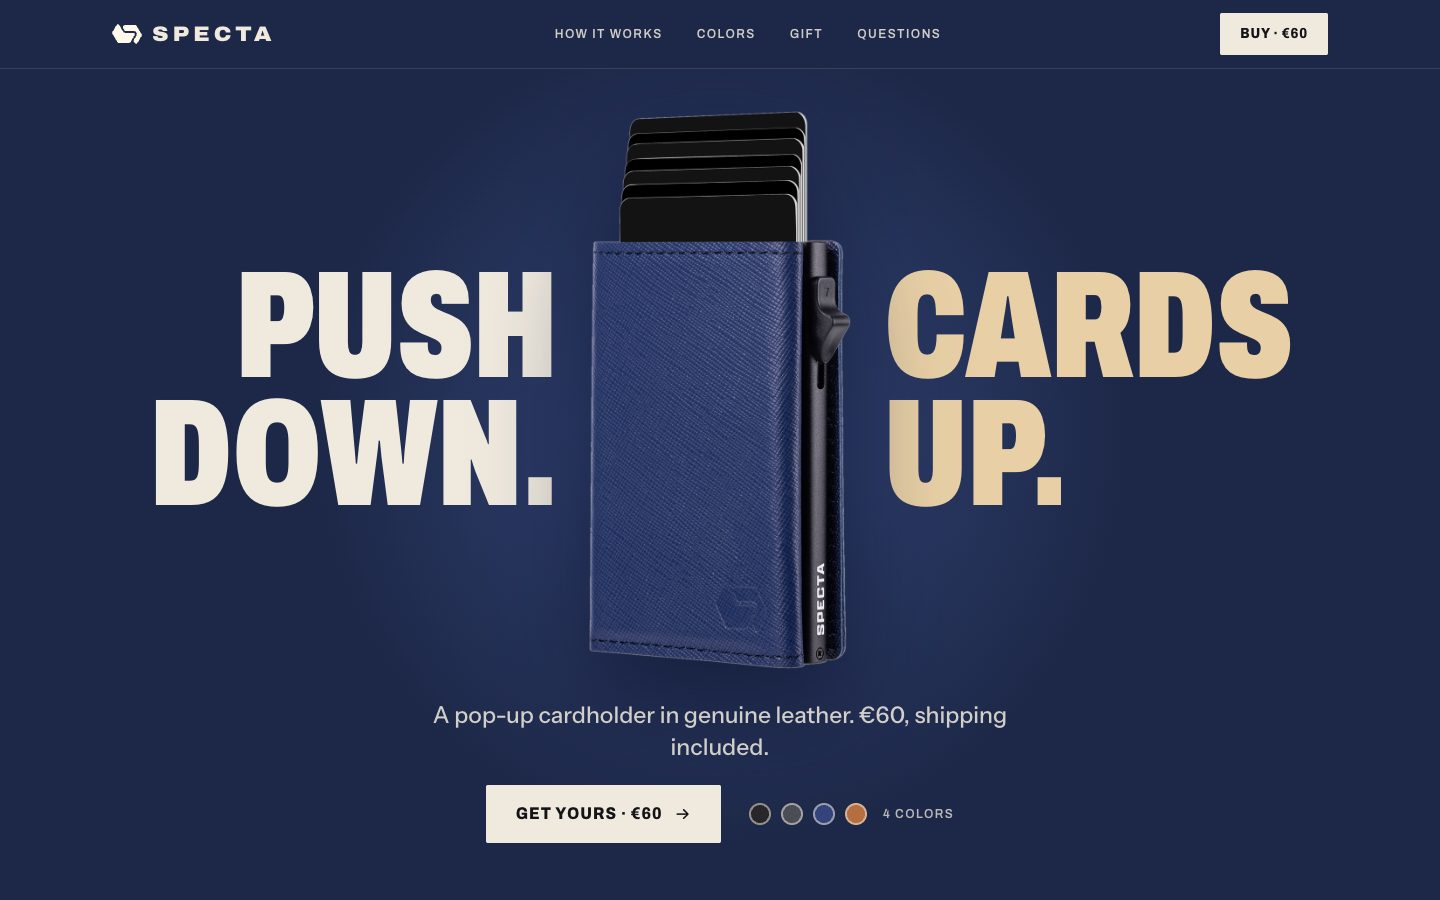
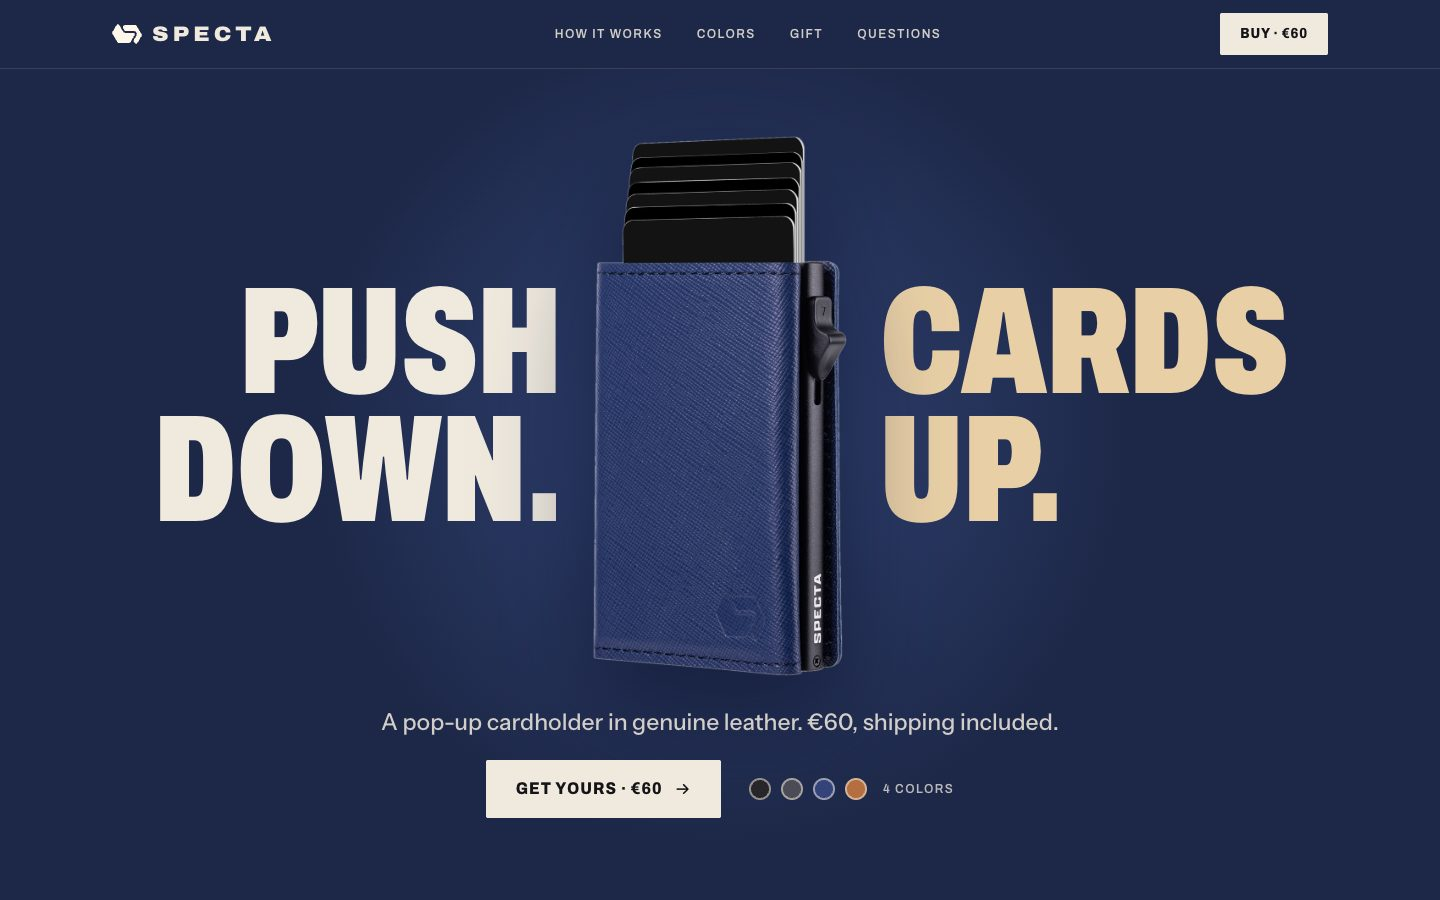
Update meekijkpagina

Changed region(s): [[0.0938, 0.1244, 0.9062, 0.7467], [0.2812, 0.7778, 0.75, 0.9644]]

diff --git a/index.html b/index.html
@@ -1,8 +1,8 @@
 <!doctype html><meta charset=utf-8><meta name=viewport content="width=device-width,initial-scale=1"><meta http-equiv=refresh content=60><meta name=robots content=noindex>
 <title>Specta · meekijken</title><style>
 body{margin:0;background:#0b1626;color:#eef2f7;font:15px/1.5 system-ui,-apple-system,sans-serif}main{max-width:1200px;margin:auto;padding:24px 16px}
-h1{font-size:28px;margin:0 0 4px}.sub{color:#9fb0c6;margin:0 0 20px}.bar{height:8px;background:#1d2c44;border-radius:9px;overflow:hidden;margin:0 0 20px}.bar i{display:block;height:100%;background:linear-gradient(90deg,#ff7a2f,#ffc24d);width:61%}
+h1{font-size:28px;margin:0 0 4px}.sub{color:#9fb0c6;margin:0 0 20px}.bar{height:8px;background:#1d2c44;border-radius:9px;overflow:hidden;margin:0 0 20px}.bar i{display:block;height:100%;background:linear-gradient(90deg,#ff7a2f,#ffc24d);width:78%}
 ul{list-style:none;padding:0;display:grid;grid-template-columns:repeat(auto-fill,minmax(220px,1fr));gap:8px}li{background:#13233a;border-radius:10px;padding:8px 12px}li span{margin-right:8px}li.ok span{color:#5ad38b}li.run span{color:#ffc24d;animation:p 1.2s infinite}@keyframes p{50%{opacity:.3}}
 h2{font-size:20px;margin:28px 0 10px}h2 a,.docs a{color:#ffc24d;font-size:14px;margin-left:10px}.g{display:grid;grid-template-columns:repeat(auto-fill,minmax(260px,1fr));gap:12px}.g a{color:#9fb0c6;text-decoration:none}.g img{width:100%;border-radius:10px;display:block;max-height:520px;object-fit:cover;object-position:top}em{font-style:normal;font-size:13px}
-</style><main><h1>Specta · nieuwe website-richtingen</h1><p class=sub>Ververst elke minuut · 21:38:58 · 14 van 23 stappen klaar</p><div class=bar><i></i></div>
-<ul><li class="ok"><span>✓</span>Studie · jvo-design</li><li class="ok"><span>✓</span>Studie · jvo-social</li><li class="ok"><span>✓</span>Studie · specta-assets</li><li class="ok"><span>✓</span>Richtingen</li><li class="ok"><span>✓</span>Bouwen · A</li><li class="ok"><span>✓</span>Bouwen · B</li><li class="ok"><span>✓</span>Bouwen · C</li><li class="ok"><span>✓</span>Bouwen · D</li><li class="ok"><span>✓</span>Art-director · A</li><li class="ok"><span>✓</span>Marketing-check · A</li><li class="ok"><span>✓</span>Art-director · C</li><li class="ok"><span>✓</span>Marketing-check · C</li><li class="ok"><span>✓</span>Art-director · B</li><li class="ok"><span>✓</span>Marketing-check · B</li><li class="run"><span>●</span>Verfijnen · C</li><li class="run"><span>●</span>Verfijnen · A</li><li class="run"><span>●</span>Verfijnen · B</li><li class="run"><span>●</span>Art-director · D</li><li class="run"><span>●</span>Marketing-check · D</li></ul><div class=docs><a href="f/IDEAS.md" target=_blank>IDEAS.md</a></div><section><h2>A <a href="f/A/index.html" target=_blank>open mockup →</a></h2><div class=g><a href="f/A/shot-desktop-hero.jpg" target=_blank><img src="f/A/shot-desktop-hero.jpg?t=1794861511"><em>desktop-hero</em></a><a href="f/A/shot-desktop.jpg" target=_blank><img src="f/A/shot-desktop.jpg?t=1794861511"><em>desktop</em></a><a href="f/A/shot-phone.jpg" target=_blank><img src="f/A/shot-phone.jpg?t=1794861512"><em>phone</em></a></div></section><section><h2>B <a href="f/B/index.html" target=_blank>open mockup →</a></h2><div class=g><a href="f/B/shot-desktop-hero.jpg" target=_blank><img src="f/B/shot-desktop-hero.jpg?t=1794861528"><em>desktop-hero</em></a><a href="f/B/shot-desktop.jpg" target=_blank><img src="f/B/shot-desktop.jpg?t=1794861528"><em>desktop</em></a><a href="f/B/shot-phone.jpg" target=_blank><img src="f/B/shot-phone.jpg?t=1794861529"><em>phone</em></a></div></section><section><h2>C <a href="f/C/index.html" target=_blank>open mockup →</a></h2><div class=g><a href="f/C/shot-desktop-hero.jpg" target=_blank><img src="f/C/shot-desktop-hero.jpg?t=1794861143"><em>desktop-hero</em></a><a href="f/C/shot-desktop.jpg" target=_blank><img src="f/C/shot-desktop.jpg?t=1794861143"><em>desktop</em></a><a href="f/C/shot-phone.jpg" target=_blank><img src="f/C/shot-phone.jpg?t=1794861143"><em>phone</em></a></div></section><section><h2>D <a href="f/D/index.html" target=_blank>open mockup →</a></h2><div class=g><a href="f/D/shot-desktop-hero.jpg" target=_blank><img src="f/D/shot-desktop-hero.jpg?t=1794861439"><em>desktop-hero</em></a><a href="f/D/shot-desktop.jpg" target=_blank><img src="f/D/shot-desktop.jpg?t=1794861439"><em>desktop</em></a><a href="f/D/shot-phone.jpg" target=_blank><img src="f/D/shot-phone.jpg?t=1794861439"><em>phone</em></a></div></section></main>
+</style><main><h1>Specta · nieuwe website-richtingen</h1><p class=sub>Ververst elke minuut · 21:41:01 · 18 van 23 stappen klaar</p><div class=bar><i></i></div>
+<ul><li class="ok"><span>✓</span>Studie · jvo-design</li><li class="ok"><span>✓</span>Studie · jvo-social</li><li class="ok"><span>✓</span>Studie · specta-assets</li><li class="ok"><span>✓</span>Richtingen</li><li class="ok"><span>✓</span>Bouwen · A</li><li class="ok"><span>✓</span>Bouwen · B</li><li class="ok"><span>✓</span>Bouwen · C</li><li class="ok"><span>✓</span>Bouwen · D</li><li class="ok"><span>✓</span>Art-director · A</li><li class="ok"><span>✓</span>Marketing-check · A</li><li class="ok"><span>✓</span>Art-director · C</li><li class="ok"><span>✓</span>Marketing-check · C</li><li class="ok"><span>✓</span>Art-director · B</li><li class="ok"><span>✓</span>Marketing-check · B</li><li class="run"><span>●</span>Verfijnen · C</li><li class="ok"><span>✓</span>Verfijnen · A</li><li class="ok"><span>✓</span>Verfijnen · B</li><li class="ok"><span>✓</span>Art-director · D</li><li class="ok"><span>✓</span>Marketing-check · D</li><li class="run"><span>●</span>Verfijnen · D</li></ul><div class=docs><a href="f/IDEAS.md" target=_blank>IDEAS.md</a></div><section><h2>A <a href="f/A/index.html" target=_blank>open mockup →</a></h2><div class=g><a href="f/A/shot-desktop-hero.jpg" target=_blank><img src="f/A/shot-desktop-hero.jpg?t=1794861644"><em>desktop-hero</em></a><a href="f/A/shot-desktop.jpg" target=_blank><img src="f/A/shot-desktop.jpg?t=1794861644"><em>desktop</em></a><a href="f/A/shot-phone.jpg" target=_blank><img src="f/A/shot-phone.jpg?t=1794861644"><em>phone</em></a></div></section><section><h2>B <a href="f/B/index.html" target=_blank>open mockup →</a></h2><div class=g><a href="f/B/shot-desktop-hero.jpg" target=_blank><img src="f/B/shot-desktop-hero.jpg?t=1794861599"><em>desktop-hero</em></a><a href="f/B/shot-desktop.jpg" target=_blank><img src="f/B/shot-desktop.jpg?t=1794861600"><em>desktop</em></a><a href="f/B/shot-phone.jpg" target=_blank><img src="f/B/shot-phone.jpg?t=1794861600"><em>phone</em></a></div></section><section><h2>C <a href="f/C/index.html" target=_blank>open mockup →</a></h2><div class=g><a href="f/C/shot-desktop-hero.jpg" target=_blank><img src="f/C/shot-desktop-hero.jpg?t=1794861657"><em>desktop-hero</em></a><a href="f/C/shot-desktop.jpg" target=_blank><img src="f/C/shot-desktop.jpg?t=1794861657"><em>desktop</em></a><a href="f/C/shot-phone.jpg" target=_blank><img src="f/C/shot-phone.jpg?t=1794861657"><em>phone</em></a></div></section><section><h2>D <a href="f/D/index.html" target=_blank>open mockup →</a></h2><div class=g><a href="f/D/shot-desktop-hero.jpg" target=_blank><img src="f/D/shot-desktop-hero.jpg?t=1794861439"><em>desktop-hero</em></a><a href="f/D/shot-desktop.jpg" target=_blank><img src="f/D/shot-desktop.jpg?t=1794861439"><em>desktop</em></a><a href="f/D/shot-phone.jpg" target=_blank><img src="f/D/shot-phone.jpg?t=1794861439"><em>phone</em></a></div></section></main>

diff --git a/f/A/index.html b/f/A/index.html
@@ -63,6 +63,7 @@ button{font:inherit;color:inherit;background:none;border:0;cursor:pointer}
 .sw[aria-pressed="true"]{color:var(--ice)}
 .sw[aria-pressed="true"] i{box-shadow:inset 0 0 0 1px rgba(255,255,255,.22),0 0 0 3px var(--ground),0 0 0 5px var(--accent-2)}
 .on-copper .sw{color:rgba(15,23,48,.78)}
+.on-copper .sw i{box-shadow:inset 0 0 0 1.5px rgba(15,23,48,.45)}
 .on-copper .sw[aria-pressed="true"]{color:var(--ink)}
 .on-copper .sw[aria-pressed="true"] i{box-shadow:inset 0 0 0 1px rgba(255,255,255,.22),0 0 0 3px var(--copper-band),0 0 0 5px var(--ink)}
 .trustline{font-size:14.5px;color:var(--ice-m);display:flex;flex-wrap:wrap;gap:4px 14px}
@@ -125,7 +126,7 @@ button{font:inherit;color:inherit;background:none;border:0;cursor:pointer}
 .fix-head{display:grid;grid-template-columns:1fr auto;gap:40px;align-items:end;position:relative;z-index:2}
 .fix-head .sub b{color:var(--ink)}
 .steps{position:relative;z-index:2;display:grid;grid-template-columns:1fr .62fr 1fr;gap:28px;margin-top:64px;align-items:end}
-.step figure{position:relative}
+.step figure{position:relative;background:var(--paper)}
 .step img{width:100%;aspect-ratio:1;object-fit:cover;mix-blend-mode:multiply}
 .step.side img{aspect-ratio:.62;object-position:50% 50%}
 .step .num{font-family:var(--display);font-weight:900;font-size:110px;line-height:.8;color:var(--accent);display:block}
@@ -153,7 +154,7 @@ button{font:inherit;color:inherit;background:none;border:0;cursor:pointer}
 /* 04 gift (paper) */
 .giftsec{padding-block:120px}
 .gift-grid{position:relative;z-index:2;display:grid;grid-template-columns:1.25fr .75fr;gap:56px;align-items:center}
-.boxshot{position:relative;margin-left:calc(var(--gut) * -1)}
+.boxshot{position:relative;margin-left:calc(var(--gut) * -1);background:var(--paper)}
 .boxshot img{width:100%;max-width:820px;mix-blend-mode:multiply}
 .boxshot .tape.t1{left:14%;top:6%;transform:rotate(-8deg)}
 .boxshot .tape.t2{right:12%;bottom:12%;transform:rotate(6deg)}
@@ -246,7 +247,7 @@ button{font:inherit;color:inherit;background:none;border:0;cursor:pointer}
   .hero .wrap{padding-block:20px 26px}
   .eyebrow{font-size:23px}
   .h1{margin-top:10px;font-size:clamp(72px,22.5vw,120px);line-height:.8}
-  .prod{position:relative;right:auto;top:auto;transform:none;margin:-34px auto 0;height:330px}
+  .prod{position:relative;right:auto;top:auto;transform:none;margin:-30px auto 0;height:282px}
   .prod .ring{display:none}
   .hero-foot{margin-top:6px;gap:18px;width:100%}
   .what b{font-size:30px}
@@ -265,11 +266,13 @@ button{font:inherit;color:inherit;background:none;border:0;cursor:pointer}
   .fix{padding-block:40px 80px}
   .fix-head{grid-template-columns:1fr;gap:18px}
   .fix .sticker{width:104px;height:104px;font-size:21px;right:var(--gut);top:-10px}
-  .steps{grid-template-columns:1fr;gap:36px;margin-top:36px}
-  .step.side figure{max-width:62%}
-  .step.side img{aspect-ratio:.8}
-  .step .num{font-size:84px}
-  .step h3{font-size:38px}
+  .steps{grid-template-columns:1fr 1fr;gap:28px 14px;margin-top:30px}
+  .step:last-child{grid-column:1/-1;display:grid;grid-template-columns:55% 1fr;align-items:center;gap:10px}
+  .step.side img{aspect-ratio:1}
+  .step .cap{gap:10px;margin-top:-4px}
+  .step p{font-size:14.5px}
+  .step .num{font-size:64px}
+  .step h3{font-size:30px}
   .fix .stack-line{margin-top:40px}
   .colours{grid-template-columns:1fr;min-height:0}
   .c-photo{height:118vw;max-height:560px}
@@ -351,7 +354,7 @@ button{font:inherit;color:inherit;background:none;border:0;cursor:pointer}
   <div class="wrap">
     <div class="fix-head">
       <h2 class="h2 reveal">Wanted<span class="dot">:</span><br>your card<span class="dot">.</span></h2>
-      <p class="sub reveal" style="--i:1"><b>Last seen: the bottom of your wallet.</b><br>Specta keeps your cards in one slim leather holder and brings them up when you need them.</p>
+      <p class="sub reveal" style="--i:1"><b>Last seen: the bottom of your wallet.</b><br>Specta keeps your cards together in leather and brings them up when you need them.</p>
     </div>
     <div class="steps">
       <div class="step reveal" style="--i:1">
@@ -368,7 +371,7 @@ button{font:inherit;color:inherit;background:none;border:0;cursor:pointer}
       </div>
     </div>
     <div class="stack-line reveal">
-      <p>RFID-blocking lining <em>helps block wireless skimming.</em></p>
+      <p>RFID-blocking. <em>Helps block wireless skimming.</em></p>
       <a class="btn ink buy-link" href="/products/specta-wallet?variant=black"><span class="cdot"></span><span class="buy-txt">Buy Specta · Black · €60</span></a>
     </div>
   </div>
@@ -450,7 +453,7 @@ button{font:inherit;color:inherit;background:none;border:0;cursor:pointer}
     <div class="lines reveal" style="--i:1">
       <details open><summary><b>How many cards fit?</b><i></i></summary><p class="ans">Up to seven, depending on how thick your cards are. Push down on the side ledge and they rise in a stepped stack.</p></details>
       <details><summary><b>Is it real leather?</b><i></i></summary><p class="ans">Yes. Genuine leather with a Saffiano finish, in black, grey, navy or brown.</p></details>
-      <details><summary><b>What does RFID-blocking do?</b><i></i></summary><p class="ans">The lining helps block wireless skimming of the cards inside the wallet. It's an extra layer of protection, not a guarantee, and it can't protect a card once it's out of the wallet.</p></details>
+      <details><summary><b>What does RFID-blocking do?</b><i></i></summary><p class="ans">It helps block wireless skimming of the cards inside the wallet. It's an extra layer of protection, not a guarantee, and it can't protect a card once it's out of the wallet.</p></details>
       <details><summary><b>Where do you deliver?</b><i></i></summary><p class="ans">Within the EU only. Shipping is free and already included in the €60, so nothing is added at checkout. <span class="todo" style="color:var(--accent-2)">Delivery time: add once shipping route is final</span></p></details>
       <details><summary><b>Can I return it?</b><i></i></summary><p class="ans">Yes. You have 30 days to return it. Questions about a return? Email hello@shopspecta.com.</p></details>
       <details><summary><b>Why no reviews yet?</b><i></i></summary><p class="ans">We're new. We'd rather show no reviews than invented ones. They'll appear here once real buyers write them, the critical ones too.</p></details>
@@ -529,7 +532,7 @@ button{font:inherit;color:inherit;background:none;border:0;cursor:pointer}
   var sbar=document.getElementById('sbar'), heroBtn=document.querySelector('.hero .buy-link'), fin=document.getElementById('buy'), hv=true, fv=false;
   function upd(){ sbar.classList.toggle('on', !hv && !fv); }
   if('IntersectionObserver' in window){
-    new IntersectionObserver(function(es){ hv=es[0].isIntersecting; upd(); }).observe(heroBtn);
+    new IntersectionObserver(function(es){ hv=es[0].isIntersecting||es[0].boundingClientRect.top>0; upd(); }).observe(heroBtn);
     new IntersectionObserver(function(es){ fv=es[0].isIntersecting; upd(); }).observe(fin);
   }
   if(/[?&]bar/.test(location.search)){ hv=false; upd(); }

diff --git a/f/B/index.html b/f/B/index.html
@@ -77,18 +77,18 @@ button{font:inherit;cursor:pointer;border:0;background:none;color:inherit}
 .mech-head .wrap{display:grid;grid-template-columns:1.2fr 1fr;gap:56px;align-items:end}
 .mech-head .label{color:var(--sand);margin-bottom:22px;display:block}
 .mech-head .sub{color:rgba(239,233,222,.82)}
-.pair{display:grid;grid-template-columns:1fr 1fr}
+.pair{display:grid;grid-template-columns:minmax(0,1fr) minmax(0,1fr)}
 .pair figure{position:relative;background:#fff;overflow:hidden}
 .pair img{width:100%;aspect-ratio:1/1;object-fit:cover}
 .pair figcaption{position:absolute;left:28px;bottom:24px;background:var(--graphite);color:var(--bone);padding:10px 14px}
-.mech-strip{display:grid;grid-template-columns:repeat(3,1fr);border-top:1px solid rgba(239,233,222,.12)}
+.mech-strip{display:grid;grid-template-columns:repeat(3,minmax(0,1fr));border-top:1px solid rgba(239,233,222,.12)}
 .mech-strip div{padding:34px var(--gut);border-right:1px solid rgba(239,233,222,.12)}
 .mech-strip div:last-child{border-right:0}
 .mech-strip .label{color:var(--sand);display:block;margin-bottom:10px}
 .mech-strip p{color:rgba(239,233,222,.86);max-width:360px}
 
 /* 3 · LIFE — full-bleed triptych */
-.life{display:grid;grid-template-columns:repeat(3,1fr);position:relative}
+.life{display:grid;grid-template-columns:repeat(3,minmax(0,1fr));position:relative}
 .life img{width:100%;aspect-ratio:4/5;object-fit:cover}
 .life-over{position:absolute;inset:auto 0 0 0;padding:56px var(--gut) 44px;background:linear-gradient(0deg,rgba(14,14,16,.78),rgba(14,14,16,0));color:var(--bone);display:flex;justify-content:space-between;align-items:flex-end;gap:32px}
 .life-over .label{opacity:.8}
@@ -97,7 +97,7 @@ button{font:inherit;cursor:pointer;border:0;background:none;color:inherit}
 .colors-head{padding:var(--pad) 0 56px}
 .colors-head .wrap{display:flex;justify-content:space-between;align-items:flex-end;gap:40px}
 .colors-head .sub{max-width:440px;color:var(--ink-2)}
-.fields{display:grid;grid-template-columns:repeat(4,1fr)}
+.fields{display:grid;grid-template-columns:repeat(4,minmax(0,1fr))}
 .field{color:var(--bone);display:flex;flex-direction:column;text-align:left;cursor:pointer;transition:filter .2s}
 .field:hover{filter:brightness(1.08)}
 .field .name{font-family:var(--display);font-weight:900;font-variation-settings:"wdth" 68;text-transform:uppercase;font-size:clamp(40px,4.4vw,68px);line-height:.9;padding:34px 28px 20px}
@@ -114,7 +114,7 @@ button{font:inherit;cursor:pointer;border:0;background:none;color:inherit}
 .steps{list-style:none;counter-reset:s;display:grid;gap:14px}
 .steps li{counter-increment:s;display:grid;grid-template-columns:40px 1fr;align-items:baseline;border-top:1px solid rgba(20,20,22,.16);padding-top:14px}
 .steps li::before{content:counter(s,decimal-leading-zero);font-family:var(--display);font-weight:800;font-size:13px;letter-spacing:.1em}
-.facts{display:grid;grid-template-columns:repeat(3,1fr);gap:0;max-width:1440px;margin:0 auto;border-top:1px solid rgba(20,20,22,.16)}
+.facts{display:grid;grid-template-columns:repeat(3,minmax(0,1fr));gap:0;max-width:1440px;margin:0 auto;border-top:1px solid rgba(20,20,22,.16)}
 .facts div{padding:30px 32px 0 0}
 .facts .label{display:block;margin-bottom:8px}
 .facts p{color:var(--ink-2);font-size:16px}
@@ -124,8 +124,8 @@ button{font:inherit;cursor:pointer;border:0;background:none;color:inherit}
 .posters-head{padding:96px 0 48px}
 .posters-head .wrap{display:flex;justify-content:space-between;align-items:flex-end;gap:32px}
 .posters-head p{color:rgba(239,233,222,.72);max-width:420px}
-.wall{display:grid;grid-template-columns:repeat(4,1fr)}
-.wall img{width:100%;aspect-ratio:4/5.6;object-fit:cover}
+.wall{display:grid;grid-template-columns:repeat(4,minmax(0,1fr))}
+.wall img{width:100%;aspect-ratio:4/6;object-fit:cover;object-position:50% 0}
 
 /* 6 · BUY + FAQ */
 .buy{padding:var(--pad) 0 0}
@@ -179,41 +179,43 @@ footer{background:var(--navy);color:var(--bone);padding:96px 0 120px}
   .top .btn{height:38px;padding:0 14px;font-size:13px}
   .hero{min-height:0;padding:30px 0 0;justify-content:flex-start}
   .hero::before{top:74%;width:120vw}
-  .hero-grid{grid-template-columns:1fr;gap:0}
+  .hero-grid{grid-template-columns:minmax(0,1fr);gap:0}
   .hero h1 .l,.hero h1 .r{grid-column:1;text-align:left;font-size:clamp(54px,16.5vw,80px)}
   .hero h1 .l{grid-row:1}.hero h1 .r{grid-row:2}
   .hero h1 span{display:inline}
   .hero h1 br.dk{display:none}
-  .hero-foot{grid-row:3;align-items:flex-start;text-align:left;margin-top:20px;padding:0 var(--gut);gap:18px}
+  .hero-foot{grid-row:3;align-items:flex-start;text-align:left;margin-top:20px;padding:0;gap:18px}
   .hero-cta{justify-content:flex-start;gap:18px}
   .hero-cta .btn{width:100%;justify-content:center}
   .hero-prod{grid-column:1;grid-row:4;height:420px;justify-self:center;margin-top:22px}
-  .mech-head .wrap{grid-template-columns:1fr;gap:20px}
-  .pair{grid-template-columns:1fr 1fr}
+  .mech-head .wrap{grid-template-columns:minmax(0,1fr);gap:20px}
+  .pair{grid-template-columns:minmax(0,1fr) minmax(0,1fr)}
   .pair figcaption{left:10px;bottom:10px;padding:7px 9px}
-  .mech-strip{grid-template-columns:1fr}
+  .mech-strip{grid-template-columns:minmax(0,1fr)}
   .mech-strip div{border-right:0;border-bottom:1px solid rgba(239,233,222,.12);padding:24px var(--gut)}
-  .life{grid-template-columns:1fr 1fr}
+  .life{grid-template-columns:minmax(0,1fr) minmax(0,1fr)}
   .life img:nth-child(3){display:none}
   .life-over{flex-direction:column;align-items:flex-start;gap:8px;padding:40px var(--gut) 22px}
-  .life-over .d2{font-size:40px}
+  .life-over .d2{font-size:32px}
+  .hero-grid > *,.buy-grid > *,.faq-grid > *{min-width:0}
+  .hero-foot .sub{font-size:18px}
   .colors-head .wrap{flex-direction:column;align-items:flex-start;gap:16px}
-  .fields{grid-template-columns:1fr 1fr}
+  .fields{grid-template-columns:minmax(0,1fr) minmax(0,1fr)}
   .field .name{font-size:34px;padding:20px 16px 12px}
   .field .meta{padding:12px 16px 16px}
-  .incl-grid{grid-template-columns:1fr}
+  .incl-grid{grid-template-columns:minmax(0,1fr)}
   .incl-img{min-height:0;aspect-ratio:1/1}
   .incl-copy{padding:40px var(--gut)}
-  .facts{grid-template-columns:1fr;padding:0 var(--gut)}
+  .facts{grid-template-columns:minmax(0,1fr)}
   .facts div{padding:20px 0;border-bottom:1px solid rgba(20,20,22,.12)}
   .posters-head{padding:64px 0 32px}
   .posters-head .wrap{flex-direction:column;align-items:flex-start;gap:12px}
-  .wall{grid-template-columns:1fr 1fr}
-  .buy-grid{grid-template-columns:1fr;gap:28px}
+  .wall{grid-template-columns:minmax(0,1fr) minmax(0,1fr)}
+  .buy-grid{grid-template-columns:minmax(0,1fr);gap:28px}
   .buy-img{margin:0 calc(var(--gut) * -1)}
   .price{font-size:38px}
   .chip{width:52px;height:52px}
-  .faq-grid{grid-template-columns:1fr;gap:20px}
+  .faq-grid{grid-template-columns:minmax(0,1fr);gap:20px}
   summary{font-size:17px}
   .foot-grid{grid-template-columns:1fr 1fr;gap:28px}
   .foot-grid > div:first-child{grid-column:1/-1}

diff --git a/f/C/index.html b/f/C/index.html
@@ -110,8 +110,8 @@ button{font:inherit;color:inherit;background:none;border:0;cursor:pointer}
 .dig-b .cap{font:500 17px/1.45 var(--ui);max-width:440px;color:var(--muted)}
 
 /* ---------- 3 colours ---------- */
-.cols-head{display:grid;grid-template-columns:1fr minmax(280px,400px);gap:40px;align-items:end;padding:128px var(--gut) 56px}
-.cols-head h2{font-size:clamp(46px,9vw,140px)}
+.cols-head{display:grid;grid-template-columns:1fr minmax(260px,340px);gap:40px;align-items:end;padding:128px var(--gut) 56px}
+.cols-head h2{font-size:clamp(46px,7.4vw,116px)}
 .cols-head p{font-size:17px;color:var(--muted)}
 .cols-head p b{color:var(--ink)}
 .tiles{display:grid;grid-template-columns:repeat(4,1fr)}
@@ -250,7 +250,7 @@ footer{background:var(--ink);color:var(--paper)}
 .news input::placeholder{color:rgba(244,241,236,.55)}
 .news button{font:700 13px/1 var(--ui);letter-spacing:.14em;text-transform:uppercase;padding:0 0 0 16px;display:flex;align-items:center;gap:10px}
 .news small{display:block;margin-top:12px;font-size:12px;color:var(--muted-inv)}
-.f-word{font-size:calc((100vw - 2 * var(--gut)) / 5.2);line-height:.78;padding:0 var(--gut);margin-top:10px;white-space:nowrap;color:var(--paper);letter-spacing:-.03em}
+.f-word{font-size:calc((100vw - 2 * var(--gut)) / 5.0);line-height:.78;padding:0 var(--gut);margin-top:10px;white-space:nowrap;color:var(--paper);letter-spacing:-.03em}
 .f-bot{display:flex;justify-content:space-between;gap:20px;flex-wrap:wrap;padding:26px var(--gut) 30px;border-top:1px solid var(--line-inv);margin-top:34px;font:500 13px/1.4 var(--ui);color:var(--muted-inv)}
 
 /* ---------- phone ---------- */
@@ -264,14 +264,14 @@ footer{background:var(--ink);color:var(--paper)}
   /* terracotta hero, type above and below the product */
   .hero{height:auto;display:flex;flex-direction:column;padding:76px 16px 0}
   .hero h1{display:contents}
-  .hero .eyebrow,.hero .pd,.hero .big,.wallet,.hero-copy,.hero-sw,.hero .tape{position:static;transform:none}
+  .hero .eyebrow,.hero .pd,.hero .big,.wallet,.hero-copy,.hero-sw,.hero .tape{position:static;transform:none;inset:auto}
   .hero .eyebrow{order:1;margin-bottom:10px}
   .hero .pd{order:2;font-size:8.6vw;margin-bottom:8px}
-  .hero .big{font-size:22vw;line-height:.82}
+  .hero .big{font-size:19.4vw;line-height:.82}
   .hero .big.l1{order:3}
-  .wallet{order:4;align-self:center;height:auto;width:46vw;margin:-6vw 0 -10vw;transform:rotate(9deg);position:relative;z-index:2}
+  .wallet{order:4;align-self:center;height:auto;width:44vw;margin:-5vw 0 -6vw;transform:rotate(9deg);position:relative;inset:auto;z-index:2}
   .wallet img{width:100%;height:auto}
-  .hero .big.l2{order:5;align-self:flex-end;position:relative;z-index:1}
+  .hero .big.l2{order:5;align-self:flex-end;position:relative;inset:auto;z-index:3}
   .hero-copy{order:6;max-width:none;padding:22px 0 0}
   .hero-copy p{font-size:17px;margin-bottom:18px}
   .hero-copy .btn{width:100%}
@@ -311,6 +311,9 @@ footer{background:var(--ink);color:var(--paper)}
   .ask{grid-template-columns:1fr;padding:72px 16px;gap:20px}
   .ask summary{font-size:18px;padding:20px 0}
   .ask details p{padding-right:0}
+  .receipt .tot span{font-size:26px !important}
+  .receipt .tot small{font-size:10px;margin-left:6px;white-space:nowrap}
+  .f-bot{flex-direction:column;gap:6px}
   .buy{grid-template-columns:1fr;padding:72px 16px 64px;gap:24px}
   .buy-prod{order:-1;height:auto;width:36vw}
   .buy-prod img{width:100%;height:auto}
@@ -320,7 +323,7 @@ footer{background:var(--ink);color:var(--paper)}
   .facts{grid-template-columns:1fr}
   .f-top{grid-template-columns:1fr 1fr;padding:64px 16px 40px;gap:36px 20px}
   .news{grid-column:1/-1}
-  .f-word{font-size:calc((100vw - 32px) / 5.2)}
+  .f-word{font-size:calc((100vw - 32px) / 5.0)}
 }
 @media (prefers-reduced-motion:reduce){
   *,*::before,*::after{animation:none !important;transition:none !important}
